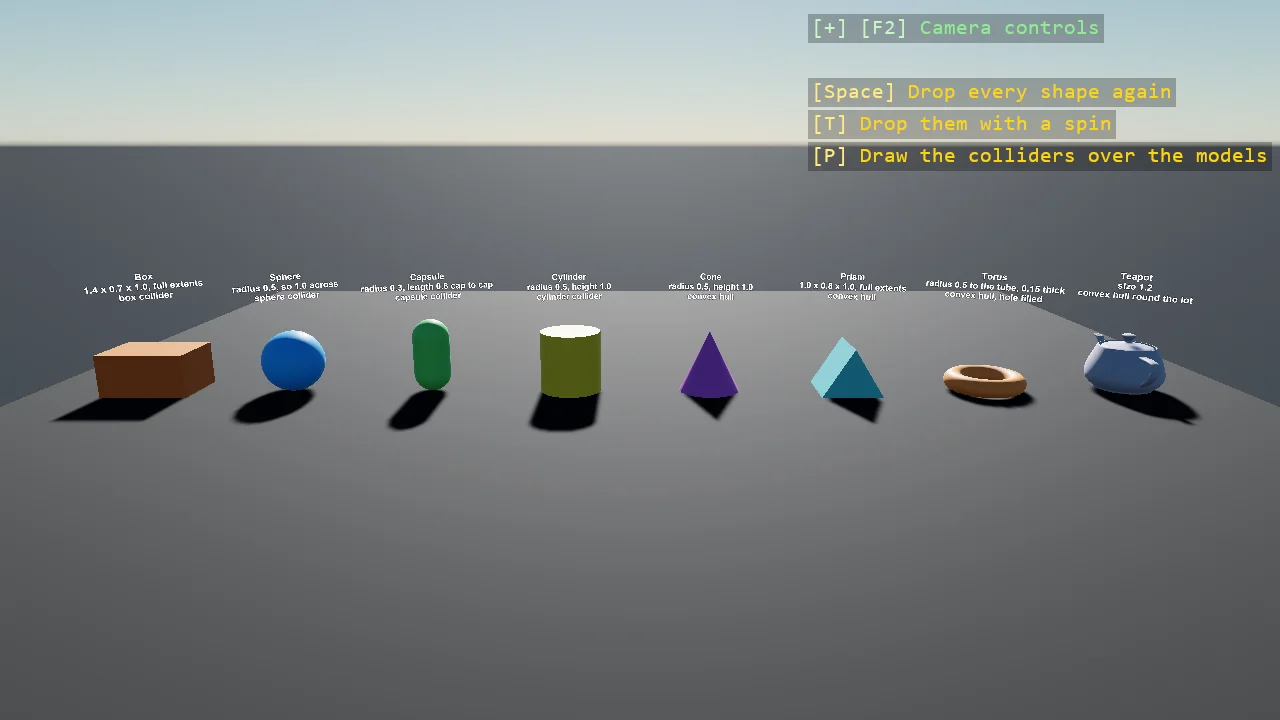
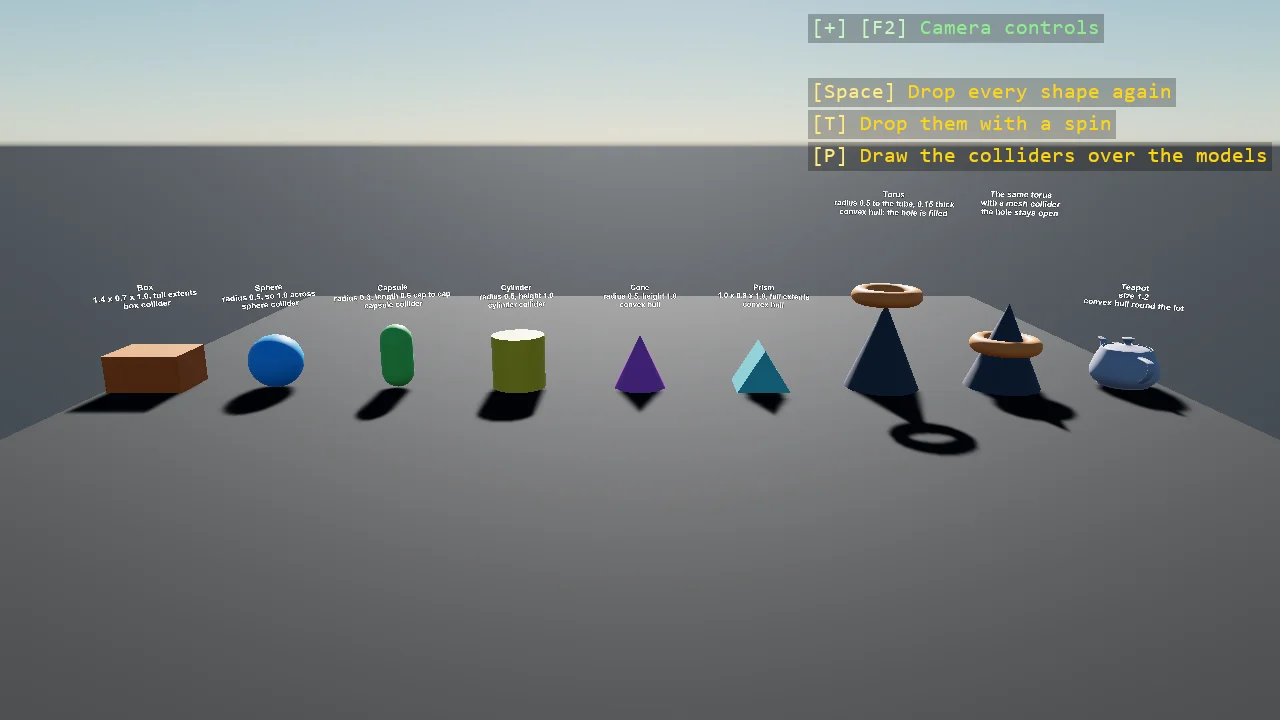
feat(examples): add physics and audio samples
- Add 10 examples for colliders, gravity, debris, cameras, Box2D, and audio
- Expand collider comparison and shared-model demonstrations
- Improve controls, overlays, physics behavior, and audio impact timing
- Update metadata, documentation, imagery, and required imports

Changed region(s): [[0.0, 0.3667, 1.0, 0.6417], [0.6562, 0.2444, 0.8438, 0.3056]]

diff --git a/examples/code-only/E05_3D_ColliderShapes/Program.cs b/examples/code-only/E05_3D_ColliderShapes/Program.cs
@@ -1,4 +1,5 @@
 using Stride.BepuPhysics;
+using Stride.BepuPhysics.Definitions.Colliders;
 using Stride.CommunityToolkit.Bepu;
 using Stride.CommunityToolkit.Engine;
 using Stride.CommunityToolkit.Rendering;
@@ -11,12 +12,16 @@ using Stride.Engine;
 using Stride.Games;
 using Stride.Graphics;
 using Stride.Input;
+using Stride.Rendering;
 
 // One of every primitive shape, dropped side by side, each with the collider the toolkit fits to it.
 // CreatePrimitive builds the model from the shape and the Bepu setup builds the collider from the same
 // shape, so the two agree by construction: a box gets a box collider, a sphere a sphere, a capsule and a
 // cylinder their own kinds, and the shapes Bepu has no primitive for - cone, prism, torus, teapot - get
-// one convex hull around every vertex, which is why a torus becomes a solid puck. P draws the colliders over the models.
+// one convex hull around every vertex, which is why a torus becomes a solid puck. A second torus carries
+// a mesh collider instead, which follows the model's triangles and so keeps the hole: a cone stands under
+// each torus, and the hull rests on its tip while the mesh slides down round it. P draws the colliders
+// over the models.
 //
 // The numbers a shape takes mean what the shape's own factory says: a box's Size is its full extent on
 // each axis, a sphere's Radius is half its width, a capsule's Length is the distance between its two cap
@@ -27,16 +32,18 @@ using Stride.Input;
 const float Spacing = 2.3f;
 const float DropHeight = 3f;
 
-(Primitive3D Shape, string Label, Color Colour)[] shapes =
+// The last flag asks for a mesh collider in place of the fitted one
+(Primitive3D Shape, string Label, Color Colour, bool Mesh)[] shapes =
 [
-    (Primitive3D.Box(new Vector3(1.4f, 0.7f, 1f)), "Box\n1.4 x 0.7 x 1.0, full extents\nbox collider", new Color(220, 120, 70)),
-    (Primitive3D.Sphere(0.5f), "Sphere\nradius 0.5, so 1.0 across\nsphere collider", new Color(80, 170, 255)),
-    (Primitive3D.Capsule(0.3f, 0.6f), "Capsule\nradius 0.3, length 0.6 cap to cap\ncapsule collider", new Color(120, 210, 120)),
-    (Primitive3D.Cylinder(0.5f, 1f), "Cylinder\nradius 0.5, height 1.0\ncylinder collider", new Color(230, 200, 80)),
-    (Primitive3D.Cone(0.5f, 1f), "Cone\nradius 0.5, height 1.0\nconvex hull", new Color(200, 110, 200)),
-    (Primitive3D.TriangularPrism(new Vector3(1f, 0.8f, 1f)), "Prism\n1.0 x 0.8 x 1.0, full extents\nconvex hull", new Color(110, 200, 210)),
-    (Primitive3D.Torus(0.5f, 0.15f), "Torus\nradius 0.5 to the tube, 0.15 thick\nconvex hull, hole filled", new Color(250, 150, 90)),
-    (Primitive3D.Teapot(1.2f), "Teapot\nsize 1.2\nconvex hull round the lot", new Color(170, 170, 190)),
+    (Primitive3D.Box(new Vector3(1.4f, 0.7f, 1f)), "Box\n1.4 x 0.7 x 1.0, full extents\nbox collider", new Color(220, 120, 70), false),
+    (Primitive3D.Sphere(0.5f), "Sphere\nradius 0.5, so 1.0 across\nsphere collider", new Color(80, 170, 255), false),
+    (Primitive3D.Capsule(0.3f, 0.6f), "Capsule\nradius 0.3, length 0.6 cap to cap\ncapsule collider", new Color(120, 210, 120), false),
+    (Primitive3D.Cylinder(0.5f, 1f), "Cylinder\nradius 0.5, height 1.0\ncylinder collider", new Color(230, 200, 80), false),
+    (Primitive3D.Cone(0.5f, 1f), "Cone\nradius 0.5, height 1.0\nconvex hull", new Color(200, 110, 200), false),
+    (Primitive3D.TriangularPrism(new Vector3(1f, 0.8f, 1f)), "Prism\n1.0 x 0.8 x 1.0, full extents\nconvex hull", new Color(110, 200, 210), false),
+    (Primitive3D.Torus(0.5f, 0.15f), "Torus\nradius 0.5 to the tube, 0.15 thick\nconvex hull: the hole is filled", new Color(250, 150, 90), false),
+    (Primitive3D.Torus(0.5f, 0.15f), "The same torus\nwith a mesh collider\nthe hole stays open", new Color(250, 150, 90), true),
+    (Primitive3D.Teapot(1.2f), "Teapot\nsize 1.2\nconvex hull round the lot", new Color(170, 170, 190), false),
 ];
 
 var bodies = new BodyComponent[shapes.Length];
@@ -46,7 +53,7 @@ using var game = new Game();
 
 var sceneSetup = new SceneSetup3D
 {
-    Camera = CameraSetup.Perspective(position: new Vector3(0f, 4f, 14f), rotation: new Vector3(0f, -14f, 0f)).WithController(),
+    Camera = CameraSetup.Perspective(position: new Vector3(0f, 4.5f, 16f), rotation: new Vector3(0f, -14f, 0f)).WithController(),
     WindowTitle = "Collider shapes - Stride Community Toolkit",
     Resizable = true,
     DpiAware = true
@@ -58,21 +65,39 @@ void Start(Scene scene)
 {
     game.AddGrabber();
 
+    var stand = game.CreateMaterial(new Color(95, 95, 105), metalness: 0f, glossiness: 0.3f);
+
     for (var i = 0; i < shapes.Length; i++)
     {
-        var (shape, label, colour) = shapes[i];
+        var (shape, label, colour, mesh) = shapes[i];
+        var material = game.CreateMaterial(colour, metalness: 0f, glossiness: 0.5f);
 
-        var entity = game.CreatePrimitive(shape, new BepuPhysicsOptions
+        var options = new BepuPhysicsOptions
         {
             EntityName = shape.Name,
-            Material = game.CreateMaterial(colour, metalness: 0f, glossiness: 0.5f),
+            Material = material,
             Position = StartPosition(i),
-        });
+        };
+
+        if (mesh)
+        {
+            // A mesh collider is built from a model's triangles, so it follows the hole; the model is the one the
+            // entity draws, shared through the game so it is generated once
+            options.ShareModel = true;
+            options.Component = new BodyComponent { Collider = new MeshCollider { Model = game.GetOrCreateModel(shape, material), Closed = true } };
+        }
+
+        var entity = game.CreatePrimitive(shape, options);
 
         entity.Scene = scene;
         bodies[i] = entity.Get<BodyComponent>();
 
-        AddLabel(scene, label, new Vector3(StartPosition(i).X, 1.5f, 0f));
+        // A cone under each torus, tip up, so the two colliders show their difference as they land
+        var torus = shape is Primitive3D.TorusShape;
+
+        if (torus) AddStand(scene, stand, StartPosition(i).X);
+
+        AddLabel(scene, label, new Vector3(StartPosition(i).X, torus ? 3.2f : 1.5f, 0f));
     }
 
     // The collider gizmos, over the models, on P
@@ -102,6 +127,20 @@ void Drop(bool spin)
 }
 
 Vector3 StartPosition(int index) => new((index - (shapes.Length - 1) / 2f) * Spacing, DropHeight, 0f);
+
+// A static cone standing on the ground; the torus with the open hole slides down it, the filled one rests on its tip
+void AddStand(Scene scene, Material material, float x)
+{
+    var cone = game.CreatePrimitive(Primitive3D.Cone(0.7f, 1.6f), new BepuPhysicsOptions
+    {
+        EntityName = "Stand",
+        Body = BodyMode.Static,
+        Material = material,
+        Position = new Vector3(x, 0.8f, 0f),
+    });
+
+    cone.Scene = scene;
+}
 
 // A label that always faces the camera, on its own entity so the shape under it tumbles without it
 void AddLabel(Scene scene, string text, Vector3 position)
@@ -145,14 +184,18 @@ description:
   en: |-
     One of every primitive shape dropped side by side, each with the collider the toolkit fits to it:
     a box, a sphere, a capsule and a cylinder get their own kinds, and the cone, prism, torus and
-    teapot get one convex hull each, which fills the torus. The label over each shape says what its numbers mean, a full extent for
-    the box-like shapes and a radius for the round ones, and P draws the colliders over the models.
+    teapot get one convex hull each, which fills the torus. A second torus carries a mesh collider
+    that keeps the hole, and a cone under each torus shows the difference: the hull rests on the
+    tip, the mesh slides down round it. The label over each shape says what its numbers mean, a full
+    extent for the box-like shapes and a radius for the round ones, and P draws the colliders over
+    the models.
 concepts:
   - One shape builds both the model and the collider, so the two agree by construction
   - Which shapes have a Bepu primitive and which become one convex hull around every vertex
   - What Size, Radius, Length and Height mean on each shape
+  - A MeshCollider from the shared model where a hull would fill a hole
   - The collider gizmos from AddPhysicsDebug, toggled with P
-  - "Using helpers: SceneSetup3D, UseBepu, UseSkybox, CreatePrimitive, CreateMaterial, AddPhysicsDebug, TeleportAtRest, TextOverlay"
+  - "Using helpers: SceneSetup3D, UseBepu, UseSkybox, CreatePrimitive, GetOrCreateModel, CreateMaterial, AddPhysicsDebug, TeleportAtRest, TextOverlay"
 tags:
   - 3D
   - Physics

diff --git a/examples/code-only/E12_Audio_Impacts/Program.cs b/examples/code-only/E12_Audio_Impacts/Program.cs
@@ -91,8 +91,8 @@ void Update(Scene scene, GameTime time)
     if (input.IsKeyPressed(Keys.Space)) Drop(scene, sizeChoice, new Vector3((random.NextSingle() - 0.5f) * 4f, dropHeight, (random.NextSingle() - 0.5f) * 4f));
     if (input.IsKeyPressed(Keys.R)) Rain(scene);
     if (input.IsKeyPressed(Keys.C)) Clear();
-    if (input.IsKeyPressed(Keys.Up)) dropHeight = MathF.Min(dropHeight + 2f, 16f);
-    if (input.IsKeyPressed(Keys.Down)) dropHeight = MathF.Max(dropHeight - 2f, 2f);
+    if (input.IsKeyPressed(Keys.PageUp)) dropHeight = MathF.Min(dropHeight + 2f, 16f);
+    if (input.IsKeyPressed(Keys.PageDown)) dropHeight = MathF.Max(dropHeight - 2f, 2f);
 
     for (var i = 0; i < radii.Length; i++)
     {
@@ -146,7 +146,7 @@ IReadOnlyList<TextElement> BuildOverlayLines() =>
 [
     new("Space", $"Drop a {sizeNames[sizeChoice]} ball from {dropHeight:0} m", Color.Gold),
     new(["1", "2", "3"], "Small, medium or large", Color.Gold),
-    new(["Up", "Down"], "Drop height", Color.Gold),
+    new(["PageUp", "PageDown"], "Drop height", Color.Gold),
     new("R", "A rain of balls", Color.Gold),
     new("C", "Clear the balls", Color.Gold),
     new(""),
@@ -167,6 +167,10 @@ public sealed class Impacts : IContactHandler
     private const float QuietSpeed = 0.6f;
     private const float Decay = 0.35f;
     private const float MarkLife = 0.6f;
+
+    // Four buffers of 4096 samples at 44.1 kHz sit between a note and the speaker, about a third of a second;
+    // the ring waits as long, so the eye and the ear agree on when the ball landed
+    private const float SoundDelay = 0.37f;
 
     private readonly ConcurrentQueue<(float Frequency, float Amplitude)> _notes = new();
     private readonly Voice[] _voices = new Voice[MaxVoices];
@@ -209,7 +213,7 @@ public sealed class Impacts : IContactHandler
         Count++;
         LastSpeed = speed;
 
-        _marks[_nextMark] = (contact.Current.Point, 0f);
+        _marks[_nextMark] = (contact.Current.Point, -SoundDelay);
         _nextMark = (_nextMark + 1) % _marks.Length;
     }
 
@@ -253,7 +257,7 @@ public sealed class Impacts : IContactHandler
         }
     }
 
-    /// <summary>A ring growing out of each recent landing, so the eye finds what the ear heard.</summary>
+    /// <summary>A ring growing out of each recent landing once its note is heard, so the eye finds what the ear hears.</summary>
     public void DrawMarks(ShapeBatch shapes, float elapsed)
     {
         shapes.StrokeWidth = 2f;
@@ -265,6 +269,8 @@ public sealed class Impacts : IContactHandler
             if (mark.Age >= MarkLife) continue;
 
             mark.Age += elapsed;
+
+            if (mark.Age < 0f) continue;
 
             var t = mark.Age / MarkLife;
 

diff --git a/examples/code-only/E05_3D_PlanetGravity/Program.cs b/examples/code-only/E05_3D_PlanetGravity/Program.cs
@@ -56,10 +56,11 @@ var sceneSetup = new SceneSetup3D
 {
     GameSettings = settings =>
     {
-        // One simulation, with no gravity of its own: the planet's script is the only pull
+        // One simulation with no gravity of its own, so the planet's script is the only pull, and no damping: Bepu's
+        // default takes a few percent of every body's speed per second, which brings an orbit down in half a minute
         var bepu = settings.GetOrCreateConfiguration<BepuConfiguration>();
 
-        bepu.BepuSimulations.Add(new BepuSimulation { PoseGravity = Vector3.Zero });
+        bepu.BepuSimulations.Add(new BepuSimulation { PoseGravity = Vector3.Zero, PoseLinearDamping = 0f, PoseAngularDamping = 0f });
     },
     Ground = null,
     Camera = CameraSetup.Perspective(position: new Vector3(0f, 22f, 26f), rotation: new Vector3(0f, -40f, 0f)).WithController(),
@@ -189,10 +190,14 @@ void DrawTrails(ShapeBatch shapes)
     }
 }
 
+string SpeedLine(int choice) => $"Launch {speedNames[choice]}{(choice == speedChoice ? " (chosen)" : "")}";
+
 IReadOnlyList<TextElement> BuildOverlayLines() =>
 [
     new("Space", "Launch a new ring", Color.Gold),
-    new(["1", "2", "3"], $"Launch speed: {speedNames[speedChoice]}", Color.Gold),
+    new("1", SpeedLine(0), speedChoice == 0 ? Color.LightGreen : Color.Gold),
+    new("2", SpeedLine(1), speedChoice == 1 ? Color.LightGreen : Color.Gold),
+    new("3", SpeedLine(2), speedChoice == 2 ? Color.LightGreen : Color.Gold),
     new("T", trails ? "Trails on" : "Trails off", Color.Gold),
     new(""),
     new($"Surface gravity {SurfaceGravity:0} m/s², no gravity in the simulation itself", Color.White),
@@ -216,7 +221,7 @@ description:
     in and an ellipse, and trails show the paths; a frame runs zero or several physics steps, so a
     force per step lives in SimulationUpdate, not in Update.
 concepts:
-  - PoseGravity set to zero for a simulation through the setup's GameSettings
+  - PoseGravity set to zero and PoseLinearDamping to zero for a simulation through the setup's GameSettings
   - A per-step pull applied in ISimulationUpdate as a velocity change on each body
   - The circular orbit speed from the gravitational parameter and the radius
   - One shared model for every orbiter, through ShareModel

diff --git a/examples/code-only/E05_3D_DebrisFiltering/Program.cs b/examples/code-only/E05_3D_DebrisFiltering/Program.cs
@@ -30,9 +30,10 @@ const float PitHalfWidth = 6f;
 const float WallHeight = 2.5f;
 const float FragmentSize = 0.35f;
 const float BurstHeight = 5f;
-const float BurstSpeed = 5f;
+const float BurstSpeed = 4f;
 
 int[] countChoices = [150, 400, 800, 1600];
+string[] countKeys = [.. countChoices.Select((_, i) => $"{i + 1}")];
 var countChoice = 1;
 var selfCollision = false;
 
@@ -127,7 +128,7 @@ void Burst(Scene scene)
 
     for (var i = 0; i < countChoices[countChoice]; i++)
     {
-        var direction = Vector3.Normalize(new Vector3(random.NextSingle() - 0.5f, random.NextSingle() * 0.5f, random.NextSingle() - 0.5f));
+        var direction = Vector3.Normalize(new Vector3(random.NextSingle() - 0.5f, 0.4f + random.NextSingle() * 0.6f, random.NextSingle() - 0.5f));
 
         // Every fragment draws the one shared model
         var fragment = game.CreatePrimitive(Primitive3D.Cube(FragmentSize), new BepuPhysicsOptions
@@ -135,7 +136,9 @@ void Burst(Scene scene)
             EntityName = "Fragment",
             Material = fragmentMaterial,
             ShareModel = true,
-            Position = new Vector3(0f, BurstHeight, 0f) + direction * (random.NextSingle() * 0.8f),
+            // A shell above the pit rather than a ball of overlapping cubes: fragments that start inside each other
+            // cost the first step dearly, and with the pair on it shows as a stall before the burst
+            Position = new Vector3(0f, BurstHeight, 0f) + direction * (1f + random.NextSingle() * 2f),
         });
 
         var body = fragment.Get<BodyComponent>();
@@ -162,7 +165,7 @@ IReadOnlyList<TextElement> BuildOverlayLines()
     [
         new("Space", "Fire the burst again", Color.Gold),
         new("F", selfCollision ? "Debris collides with debris: on" : "Debris collides with debris: off", selfCollision ? Color.OrangeRed : Color.LightGreen),
-        new(["1", "2", "3"], $"Fragments: {countChoices[countChoice]}", Color.Gold),
+        new(countKeys, $"Fragments: {countChoices[countChoice]}", Color.Gold),
         new(""),
         new($"Contact constraints in the solver: {contacts}", Color.White),
         new($"Awake bodies: {active}", Color.White),

diff --git a/examples/code-only/E06_Box2D_Events/Program.cs b/examples/code-only/E06_Box2D_Events/Program.cs
@@ -84,8 +84,8 @@ void Update(Scene scene, GameTime time)
     if (input.IsKeyPressed(Keys.Space)) Spawn(scene);
     if (input.IsKeyPressed(Keys.C)) Clear();
     if (input.IsKeyPressed(Keys.E)) simulation.EnableContactEvents = !simulation.EnableContactEvents;
-    if (input.IsKeyPressed(Keys.H)) simulation.EnableHitEvents = !simulation.EnableHitEvents;
-    if (input.IsKeyPressed(Keys.S)) simulation.EnableSensorEvents = !simulation.EnableSensorEvents;
+    if (input.IsKeyPressed(Keys.I)) simulation.EnableHitEvents = !simulation.EnableHitEvents;
+    if (input.IsKeyPressed(Keys.N)) simulation.EnableSensorEvents = !simulation.EnableSensorEvents;
 
     log.Age((float)time.Elapsed.TotalSeconds);
 
@@ -211,8 +211,8 @@ IReadOnlyList<TextElement> BuildOverlayLines()
         new("C", "Clear the shapes", Color.Gold),
         new("Left mouse", "Grab and throw a shape", Color.Gold),
         new("E", simulation.EnableContactEvents ? "Begin and end touch events: on" : "Begin and end touch events: off", simulation.EnableContactEvents ? Color.LightGreen : Color.OrangeRed),
-        new("H", simulation.EnableHitEvents ? "Hit events: on" : "Hit events: off", simulation.EnableHitEvents ? Color.LightGreen : Color.OrangeRed),
-        new("S", simulation.EnableSensorEvents ? "Sensor events: on" : "Sensor events: off", simulation.EnableSensorEvents ? Color.LightGreen : Color.OrangeRed),
+        new("I", simulation.EnableHitEvents ? "Hit events: on" : "Hit events: off", simulation.EnableHitEvents ? Color.LightGreen : Color.OrangeRed),
+        new("N", simulation.EnableSensorEvents ? "Sensor events: on" : "Sensor events: off", simulation.EnableSensorEvents ? Color.LightGreen : Color.OrangeRed),
         new(""),
         new($"Touches begun {log.Begins}, ended {log.Ends}, hits {log.Hits}, inside the sensor {log.InsideCount}", Color.White),
         new(""),

diff --git a/examples/code-only/E05_3D_ShapeQueries/Program.cs b/examples/code-only/E05_3D_ShapeQueries/Program.cs
@@ -209,6 +209,7 @@ void Throw(Scene scene, Vector3 direction)
     {
         EntityName = $"Ball {thrown.Count + 1}",
         Material = ballMaterial,
+        ShareModel = true,
         Component = new BodyComponent { Collider = new CompoundCollider(), InterpolationMode = InterpolationMode.Interpolated, Gravity = false },
         Position = launcher,
     });
@@ -278,6 +279,7 @@ void BuildLauncher(Scene scene)
     {
         EntityName = "Launcher",
         Material = ballMaterial,
+        ShareModel = true,
         Body = BodyMode.None,
         Position = launcher,
     });

diff --git a/examples/code-only/E05_3D_CollisionLayer/Program.cs b/examples/code-only/E05_3D_CollisionLayer/Program.cs
@@ -209,6 +209,7 @@ void Shoot(Scene scene)
     {
         EntityName = "Shot",
         Material = shotMaterial,
+        ShareModel = true,
         // No gravity, so the shot flies straight; continuous detection has Bepu sweep its path to the next step instead of checking only where it lands
         Component = new BodyComponent
         {

diff --git a/examples/code-only/E05_3D_TriggerZones/Program.cs b/examples/code-only/E05_3D_TriggerZones/Program.cs
@@ -198,6 +198,7 @@ void DropBalls(Scene scene)
         {
             EntityName = $"Ball {balls.Count + 1}",
             Material = ballMaterial,
+            ShareModel = true,
             Position = new Vector3(x + random.NextSingle() * 0.6f - 0.3f, 6f, random.NextSingle() * 0.6f - 0.3f),
         });
 

diff --git a/examples/code-only/E05_3D_TimeControl/Program.cs b/examples/code-only/E05_3D_TimeControl/Program.cs
@@ -156,6 +156,7 @@ void DropBall(Scene scene)
     {
         EntityName = $"Ball {balls.Count + 1}",
         Material = ballMaterial,
+        ShareModel = true,
         Position = new Vector3(random.NextSingle() * 3f - 1.5f, 7f, random.NextSingle() * 3f - 1.5f),
     });
 

diff --git a/examples/code-only/E05_3D_ResetOutOfBounds/Program.cs b/examples/code-only/E05_3D_ResetOutOfBounds/Program.cs
@@ -76,6 +76,7 @@ void Start(Scene scene)
         {
             EntityName = $"Ball {i + 1}",
             Material = ballMaterial,
+            ShareModel = true,
             Position = StartPosition(i),
         });
 

diff --git a/src/Stride.CommunityToolkit/Engine/GameExtensions.Models.cs b/src/Stride.CommunityToolkit/Engine/GameExtensions.Models.cs
@@ -1,4 +1,5 @@
 using Stride.CommunityToolkit.Rendering.ProceduralModels;
+using Stride.Engine;
 using Stride.Games;
 using Stride.Rendering;
 using Stride.Rendering.ProceduralModels;

diff --git a/docs/manual/code-only/examples/collider-shapes.md b/docs/manual/code-only/examples/collider-shapes.md
@@ -7,19 +7,23 @@ slug: collider-shapes
 
 One of every primitive shape dropped side by side, each with the collider the toolkit fits to it:
 a box, a sphere, a capsule and a cylinder get their own kinds, and the cone, prism, torus and
-teapot get one convex hull each, which fills the torus. The label over each shape says what its numbers mean, a full extent for
-the box-like shapes and a radius for the round ones, and P draws the colliders over the models.
+teapot get one convex hull each, which fills the torus. A second torus carries a mesh collider
+that keeps the hole, and a cone under each torus shows the difference: the hull rests on the
+tip, the mesh slides down round it. The label over each shape says what its numbers mean, a full
+extent for the box-like shapes and a radius for the round ones, and P draws the colliders over
+the models.
 
 The `Program.cs` file shows how to:
 
 - One shape builds both the model and the collider, so the two agree by construction
 - Which shapes have a Bepu primitive and which become one convex hull around every vertex
 - What Size, Radius, Length and Height mean on each shape
+- A MeshCollider from the shared model where a hull would fill a hole
 - The collider gizmos from AddPhysicsDebug, toggled with P
-- Using helpers: SceneSetup3D, UseBepu, UseSkybox, CreatePrimitive, CreateMaterial, AddPhysicsDebug, TeleportAtRest, TextOverlay
+- Using helpers: SceneSetup3D, UseBepu, UseSkybox, CreatePrimitive, GetOrCreateModel, CreateMaterial, AddPhysicsDebug, TeleportAtRest, TextOverlay
 
 ![Collider Shapes](media/collider-shapes.webp)
 
 View on [GitHub](https://github.com/stride3d/stride-community-toolkit/tree/main/examples/code-only/E05_3D_ColliderShapes).
 
-[!code-csharp[](../../../../examples/code-only/E05_3D_ColliderShapes/Program.cs?start=1&end=131)]
+[!code-csharp[](../../../../examples/code-only/E05_3D_ColliderShapes/Program.cs?start=1&end=172)]
